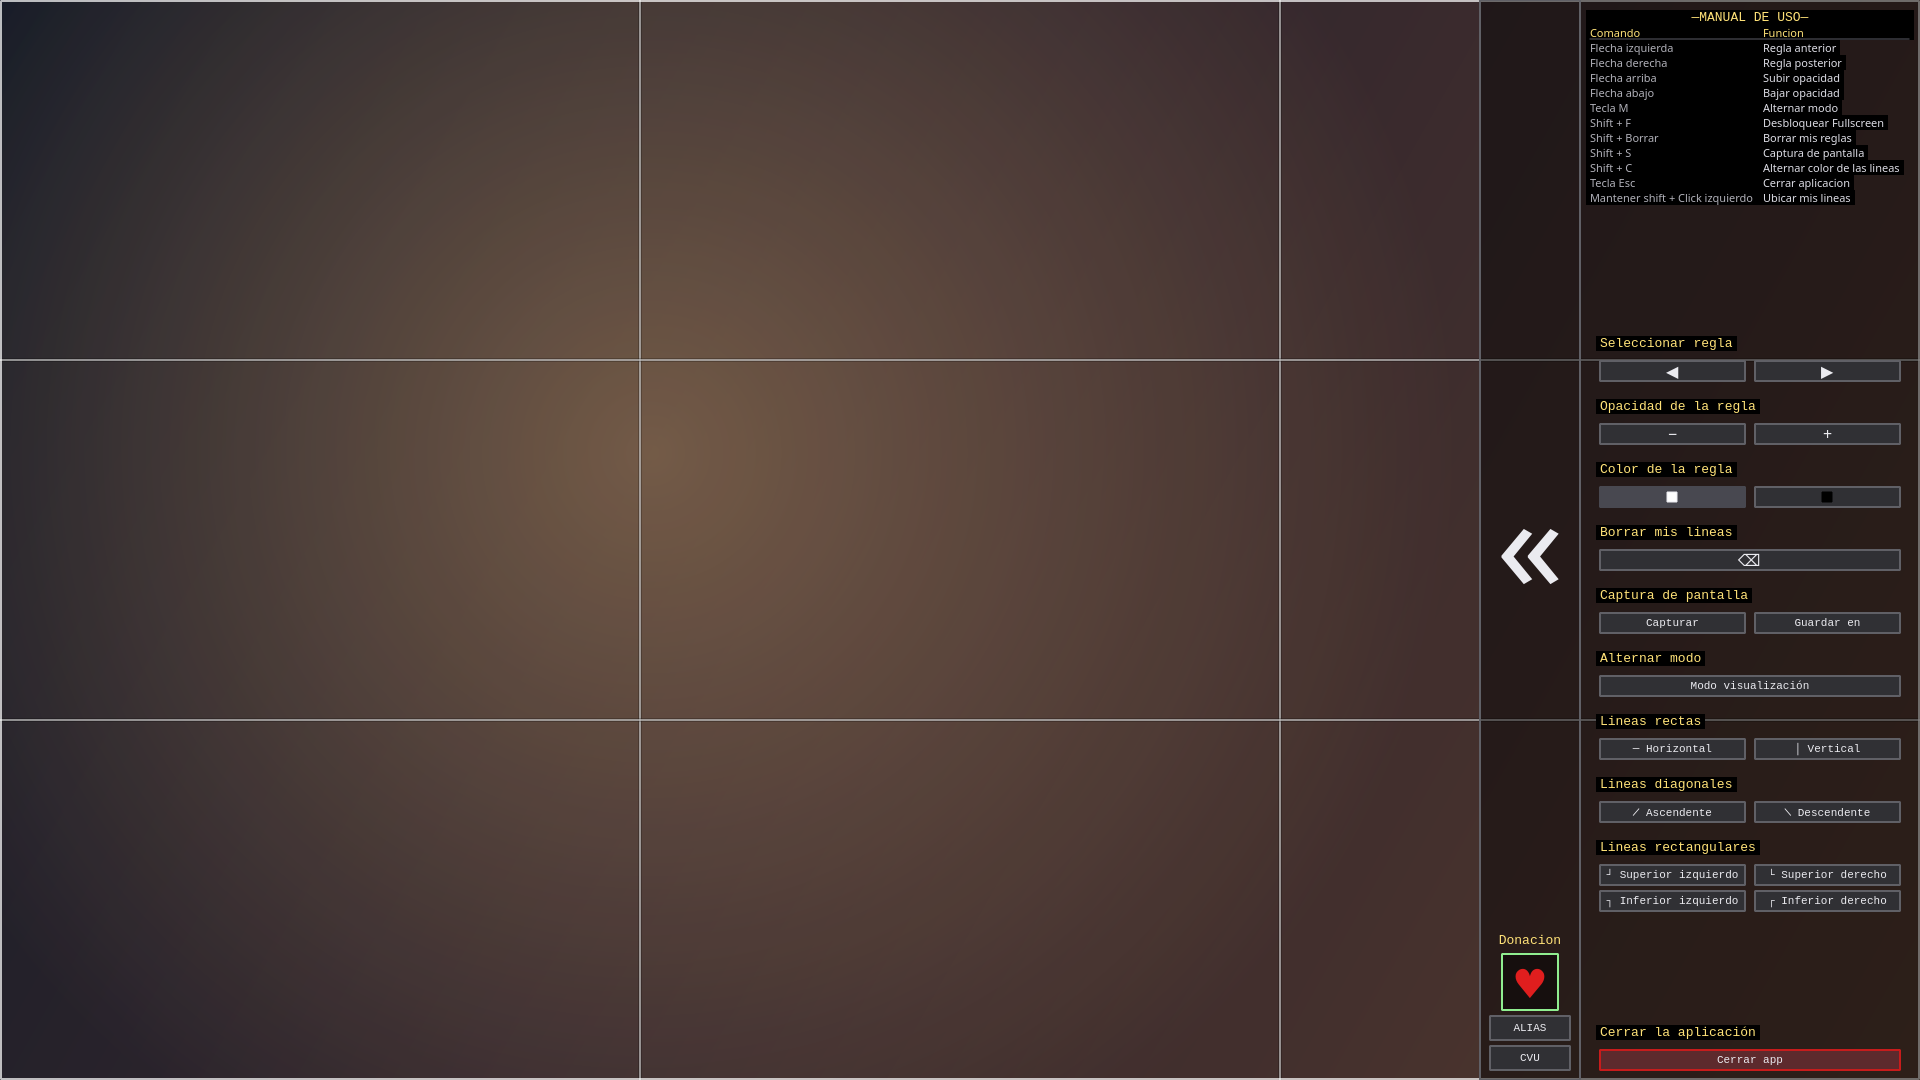
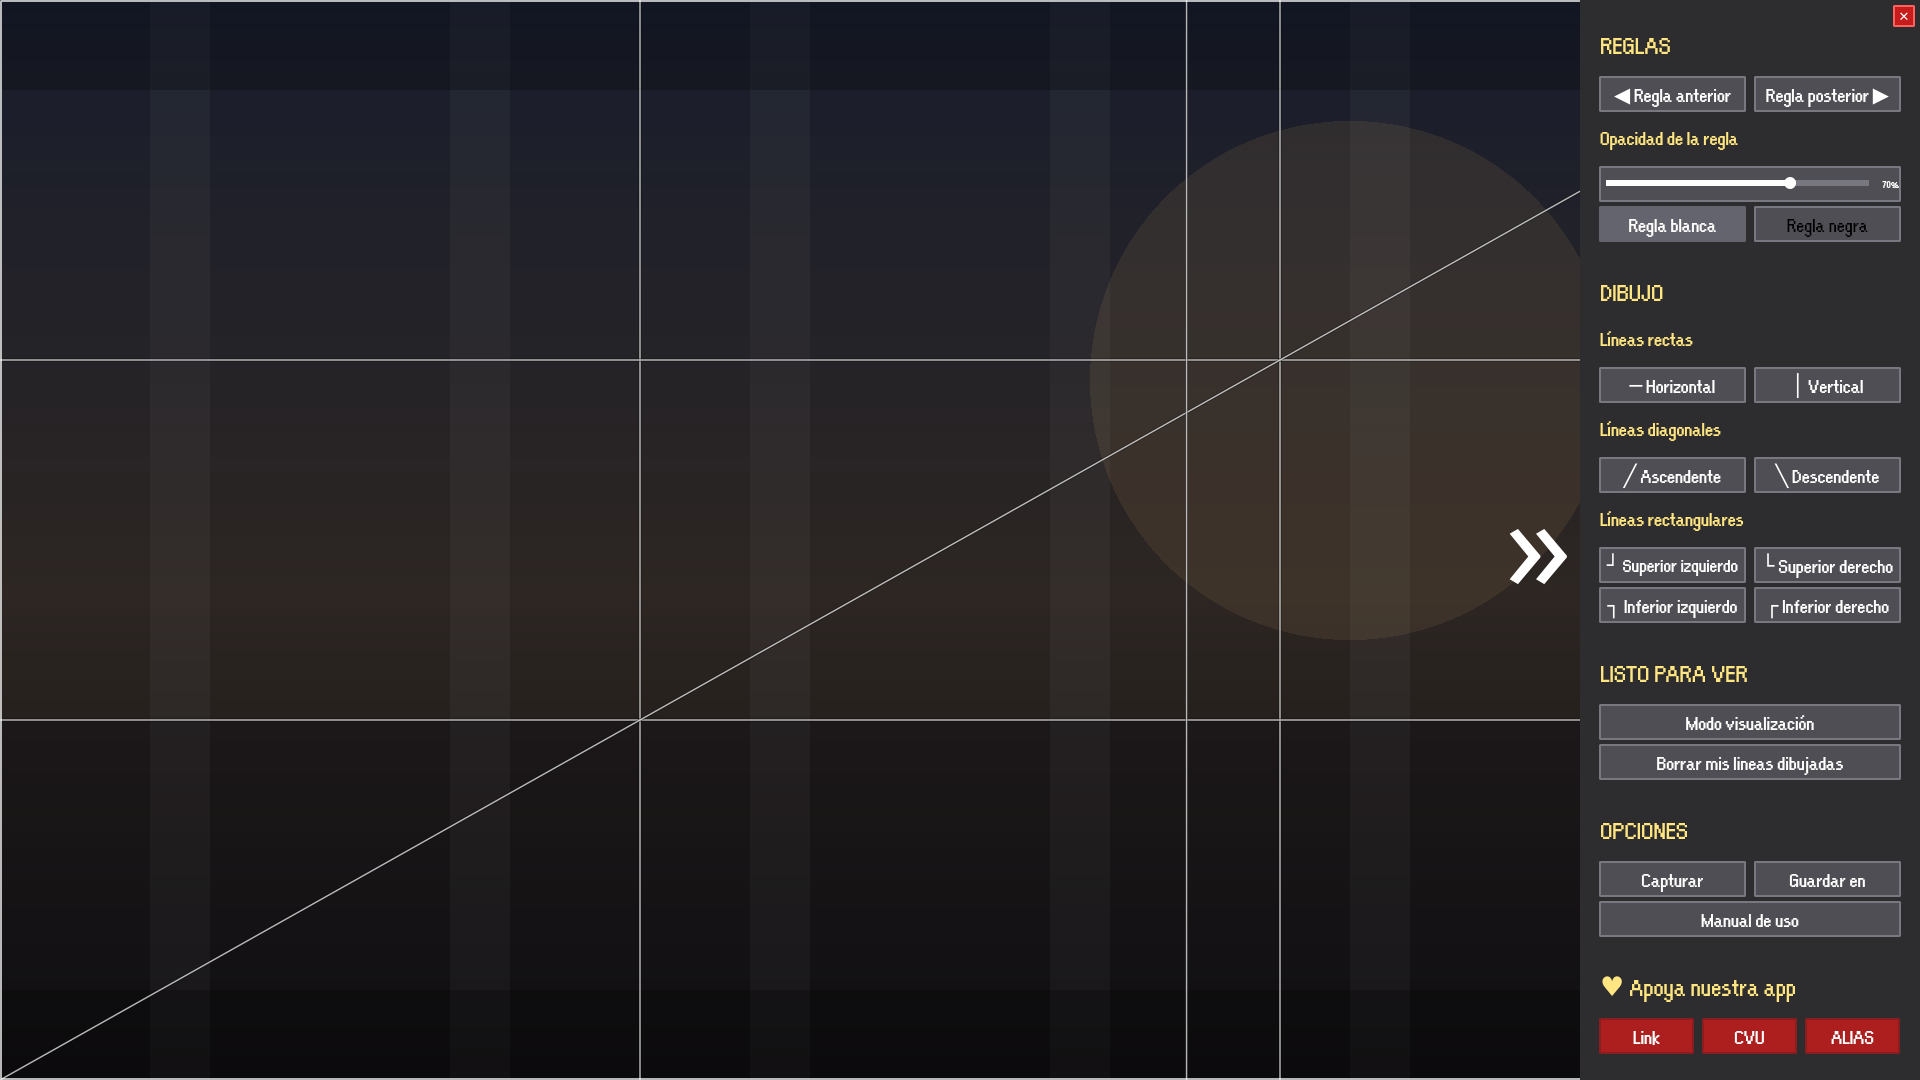
README: captura nueva con el panel rediseñado y secciones actualizadas

diff --git a/README.md b/README.md
@@ -128,13 +128,16 @@ Las teclas se configuran en `src/core/keymap.py`.
 
 ### Panel lateral
 
-Con el marco activo, se muestra un panel a la derecha que se despliega.
-Contiene:
+Con el marco activo, se muestra un panel a la derecha que se despliega,
+organizado en secciones:
 
-- La leyenda con el manual de uso.
-- Los botones de selección de guía, opacidad y color.
-- Los botones para crear reglas propias.
-- Los botones de captura, modo pasivo y cierre de la app.
+- **Reglas**: guía anterior/posterior, opacidad y color de las líneas.
+- **Dibujo**: botones para crear reglas propias (rectas, diagonales
+  y vértices).
+- **Listo para ver**: modo visualización (pasivo) y borrar las líneas
+  propias.
+- **Opciones**: captura de pantalla, carpeta de guardado y manual de uso.
+- **Apoya nuestra app**: link de donación, CVU y alias (al portapapeles).
 
 ### Modo pasivo
 
@@ -166,8 +169,8 @@ no se crea nada.
 
 ### Cómo se borran
 
-`Shift + Backspace` (o el botón ⌫ del panel) borra todas las reglas
-propias. Las guías preestablecidas no se tocan.
+`Shift + Backspace` (o el botón "Borrar mis líneas dibujadas" del panel)
+borra todas las reglas propias. Las guías preestablecidas no se tocan.
 
 Las reglas se guardan en proporción (no en píxeles), así que sobreviven
 a un redimensionado.
